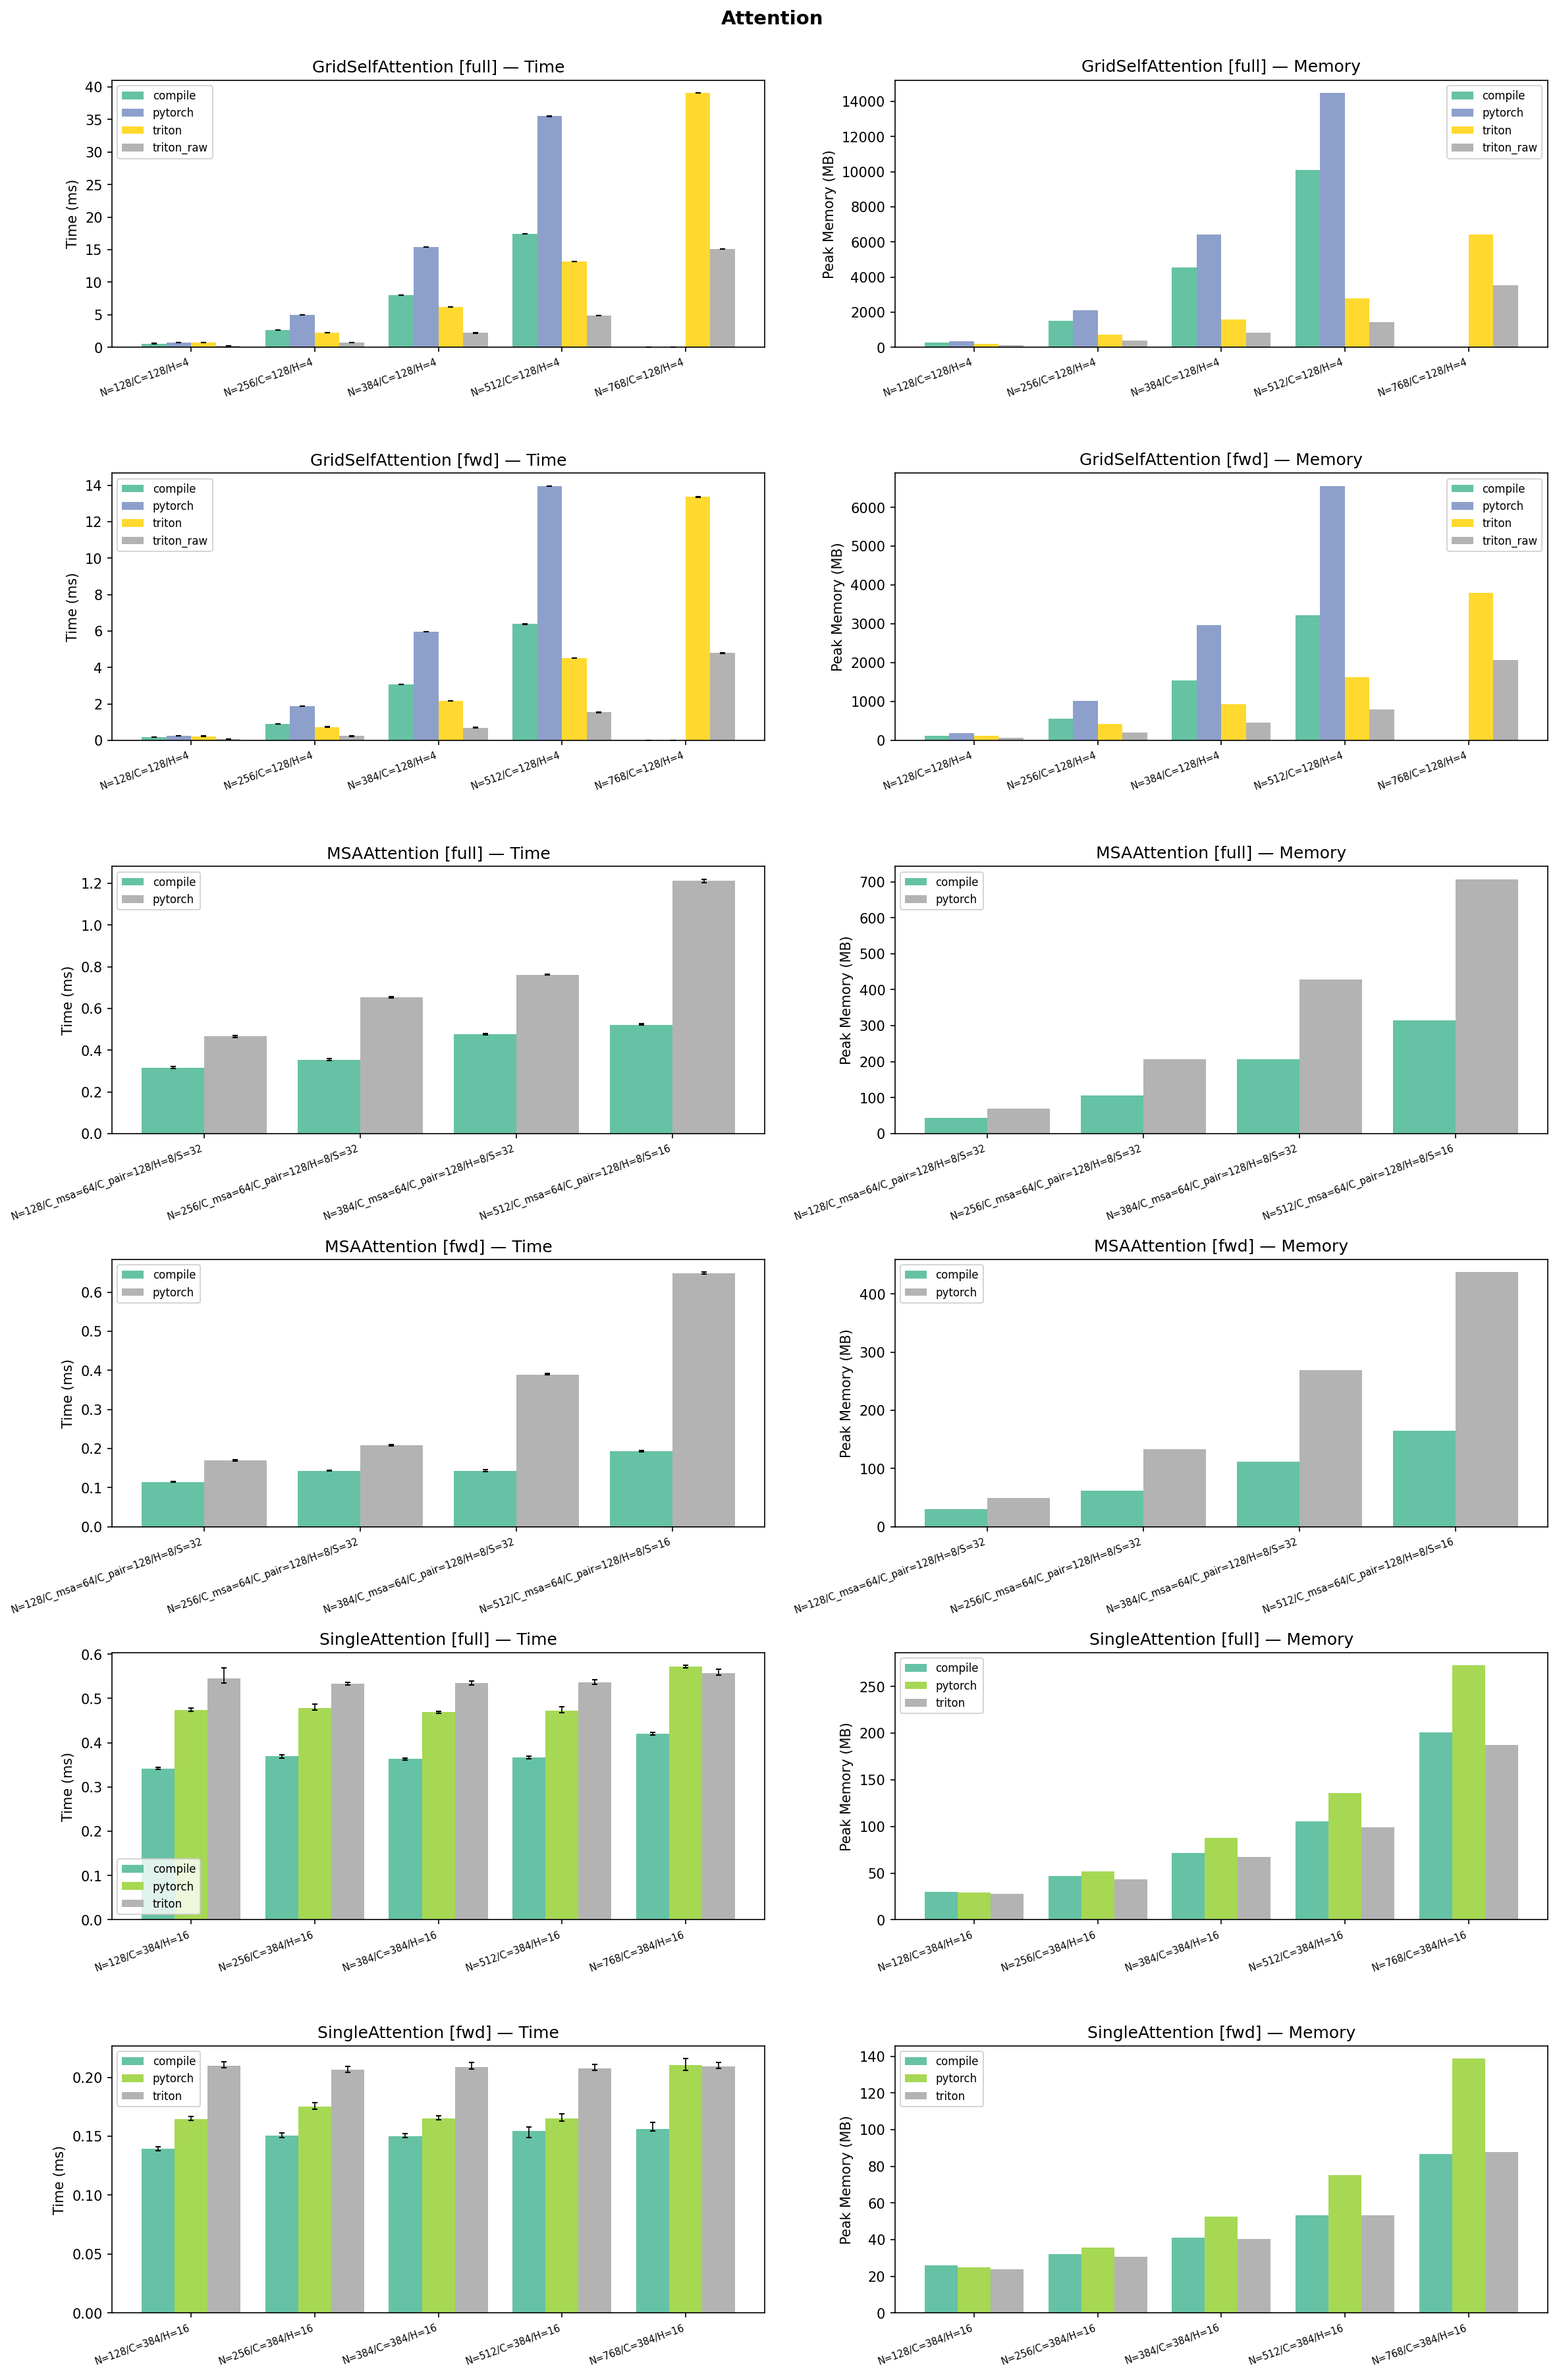
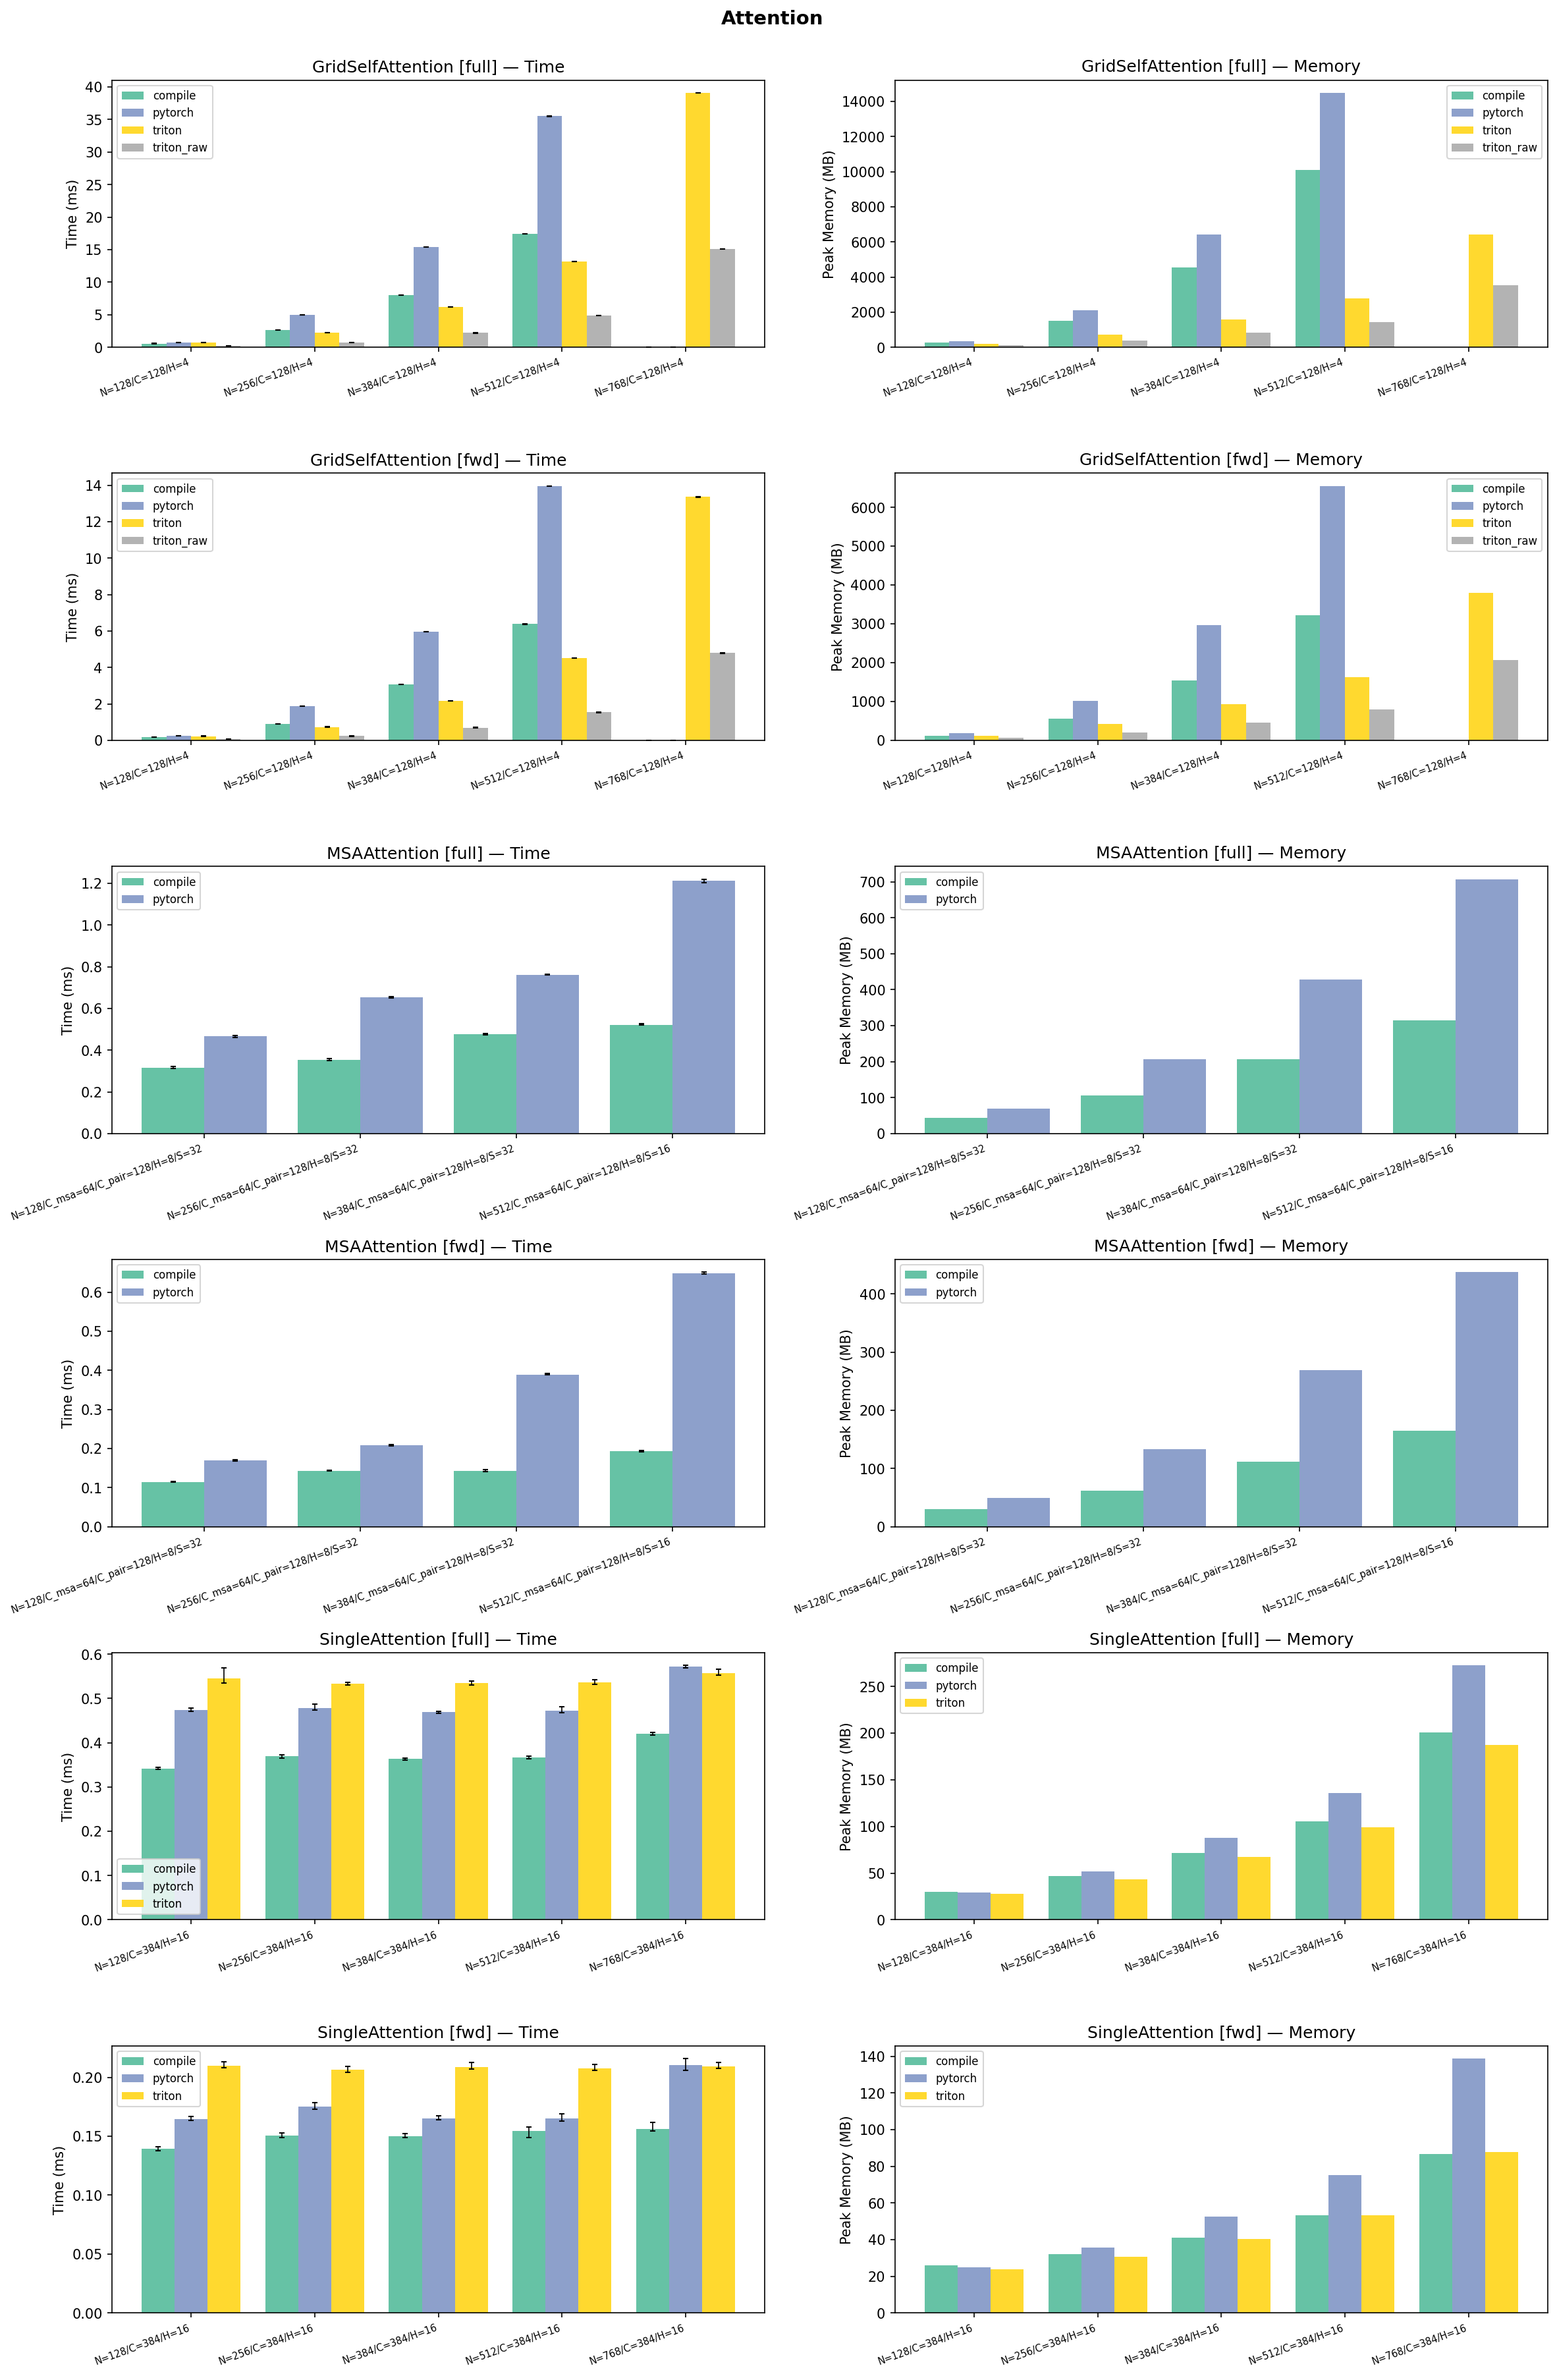
Keep benchmark provider colors consistent

diff --git a/benchmarks/plot_results.py b/benchmarks/plot_results.py
@@ -66,6 +66,10 @@ def plot_benchmark(results: list[dict], title: str, output_path: Path):
     if not fig_rows:
         return
 
+    # Build global provider → color mapping so colors are consistent across rows
+    all_providers = sorted({p for _, _, sd in fig_rows for shapes in sd.values() for p in shapes})
+    provider_colors = {p: plt.cm.Set2(i / max(len(all_providers) - 1, 1)) for i, p in enumerate(all_providers)}
+
     n_rows = len(fig_rows)
     fig, axes = plt.subplots(n_rows, 2, figsize=(16, 4 * n_rows), squeeze=False)
     fig.suptitle(title, fontsize=14, fontweight="bold", y=1.0)
@@ -78,7 +82,6 @@ def plot_benchmark(results: list[dict], title: str, output_path: Path):
 
         x = np.arange(n_shapes)
         width = 0.8 / max(n_providers, 1)
-        colors = plt.cm.Set2(np.linspace(0, 1, max(n_providers, 1)))
 
         # Time chart
         ax_time = axes[row_idx, 0]
@@ -90,7 +93,7 @@ def plot_benchmark(results: list[dict], title: str, output_path: Path):
             yerr_hi = [max(hi - t, 0) for t, hi in zip(times, p75, strict=True)]
             has_err = any(lo > 0 or hi > 0 for lo, hi in zip(yerr_lo, yerr_hi, strict=True))
             ax_time.bar(
-                x + i * width - 0.4 + width / 2, times, width, label=prov, color=colors[i],
+                x + i * width - 0.4 + width / 2, times, width, label=prov, color=provider_colors[prov],
                 yerr=[yerr_lo, yerr_hi] if has_err else None, capsize=2, error_kw={"linewidth": 0.8},
             )
         ax_time.set_ylabel("Time (ms)")
@@ -104,7 +107,7 @@ def plot_benchmark(results: list[dict], title: str, output_path: Path):
         ax_mem = axes[row_idx, 1]
         for i, prov in enumerate(providers):
             mems = [shape_data[sl].get(prov, {}).get("peak_memory_mb", 0) for sl in shape_labels]
-            ax_mem.bar(x + i * width - 0.4 + width / 2, mems, width, label=prov, color=colors[i])
+            ax_mem.bar(x + i * width - 0.4 + width / 2, mems, width, label=prov, color=provider_colors[prov])
         ax_mem.set_ylabel("Peak Memory (MB)")
         ax_mem.set_title(f"{op_name} [{mode}] — Memory")
         ax_mem.set_xticks(x)
